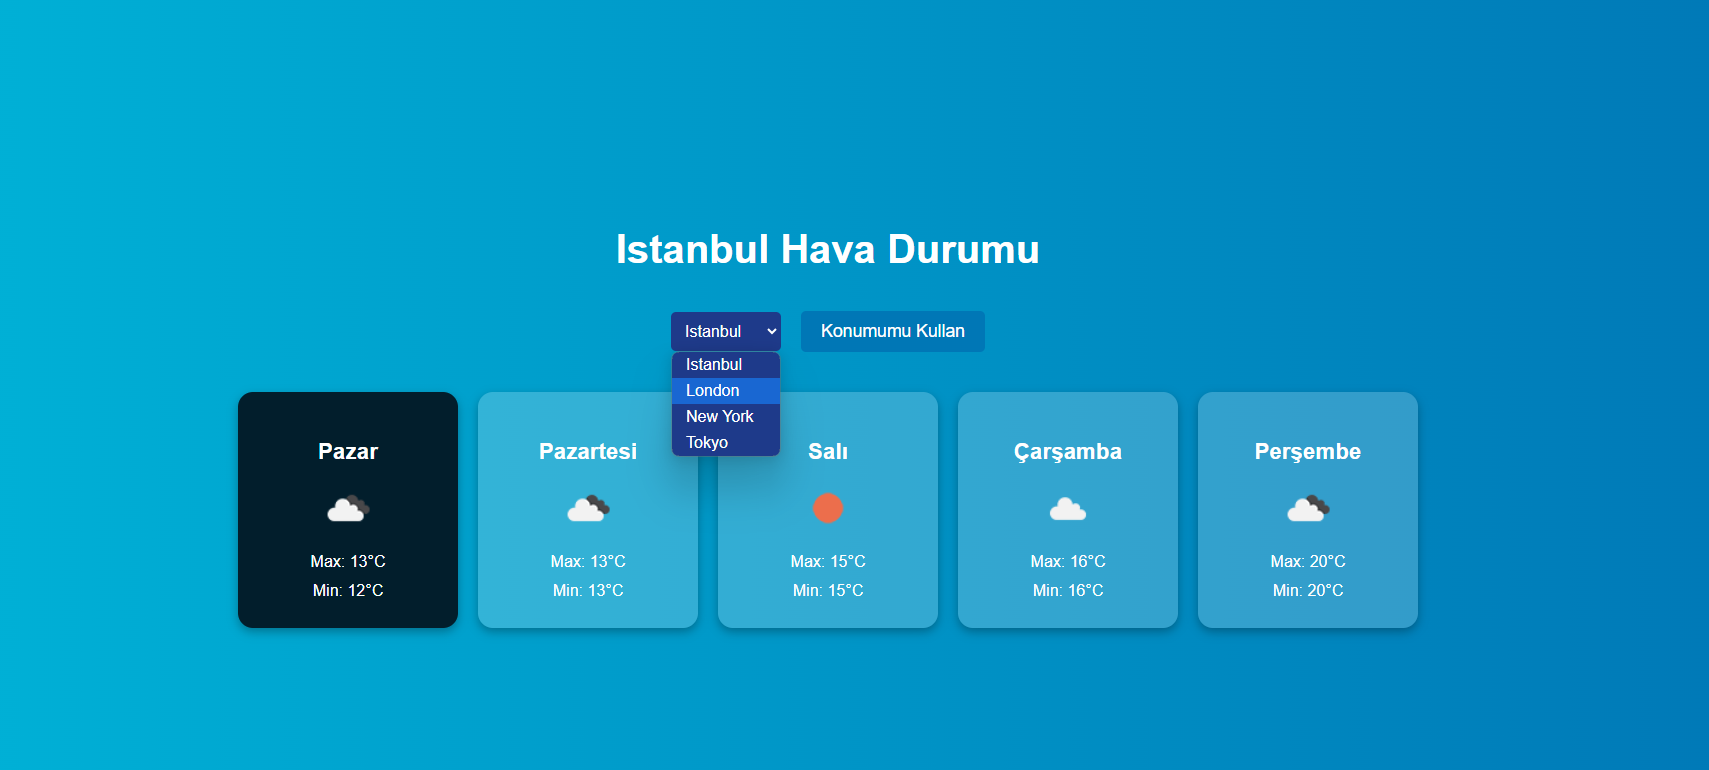
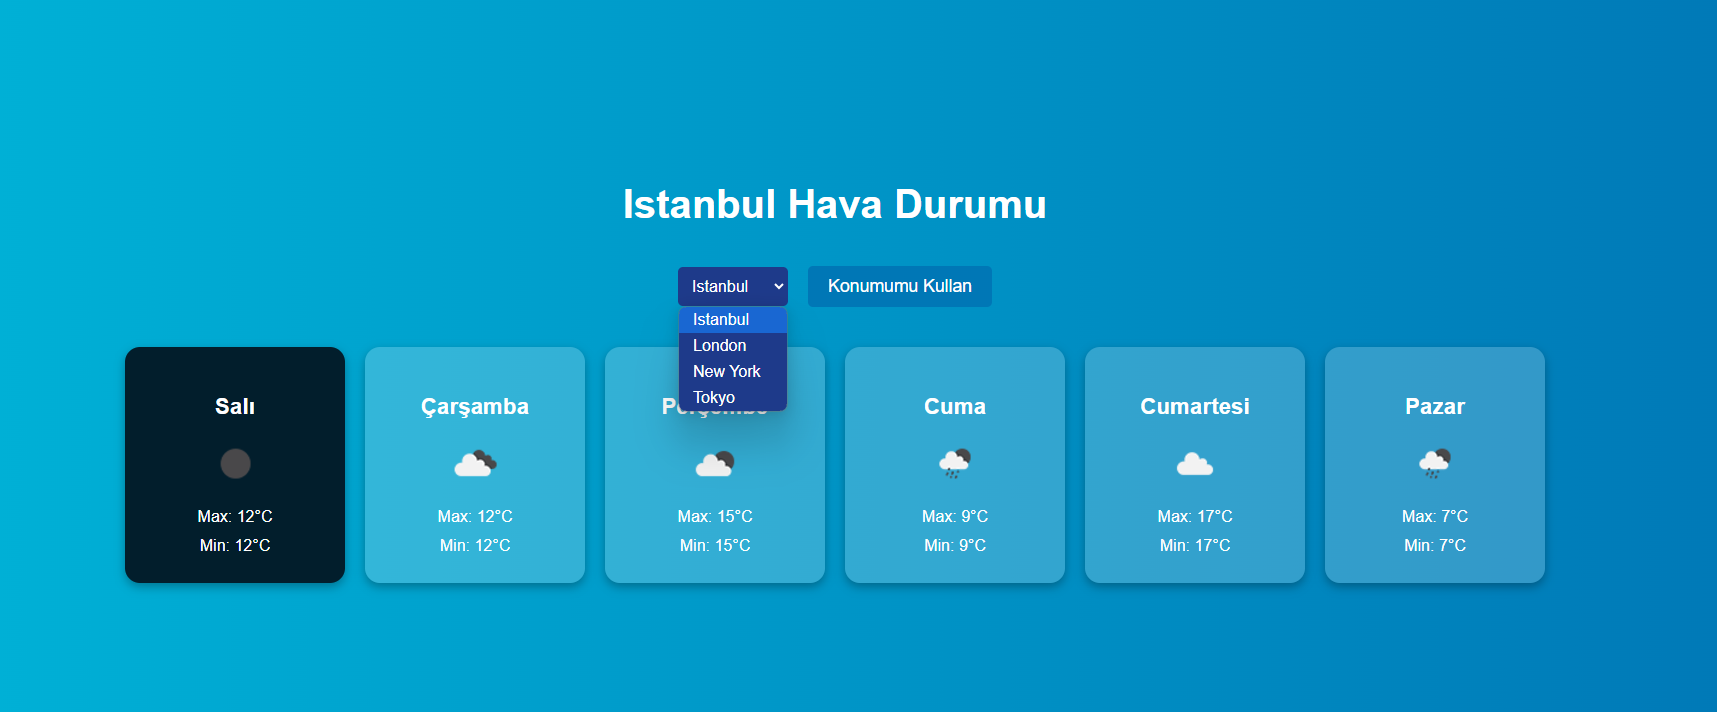
images changed

Changed region(s): [[0.062, 0.3708, 0.8994, 0.8343], [0.3411, 0.2472, 0.6202, 0.3399]]

diff --git a/README.md b/README.md
@@ -4,6 +4,8 @@ Kodluyoruz Eğitimi kapsamında yaptığım React tabanlı hava durumu uygulamas
 
 ![PROJECT](/images/weather.png)
 
+![PROJECT](/images/weather2.png)
+
 ![PROJECT](/images/dropdown.png)
 
 ![PROJECT](/images/location.png)
